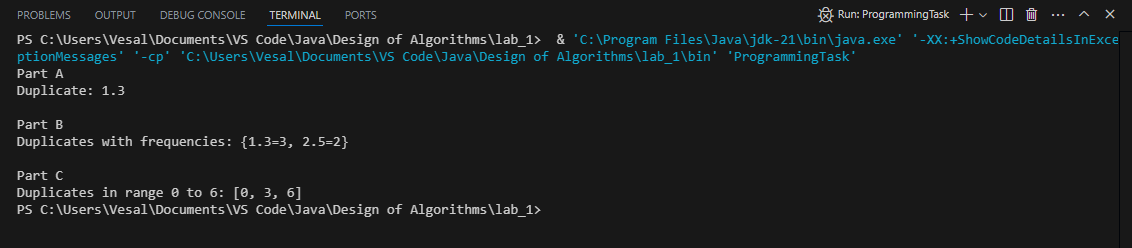
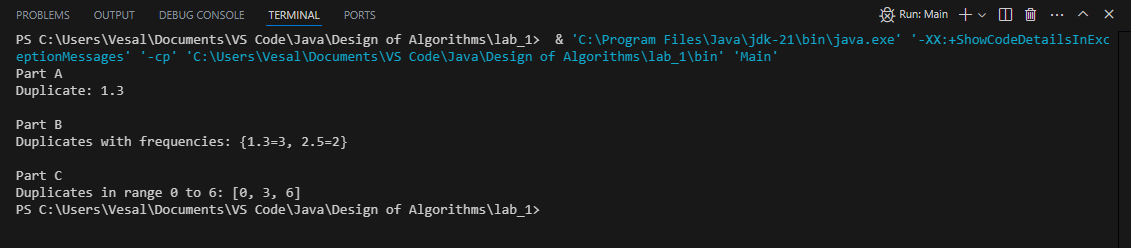
fix: separate main class

diff --git a/lab_1/src/MyHashMap.java b/lab_1/src/MyHashMap.java
@@ -2,20 +2,22 @@ import java.io.BufferedReader;
 import java.io.FileReader;
 import java.io.IOException;
 
-public class HashMap {
+class Program {
+    public static void main(String[] args) {
+        MyHashMap myHashMap = new MyHashMap();
+        myHashMap.test();
+        // myHashMap.print();
+    }
+}
+
+public class MyHashMap {
     private MyLinkedList[] entry;
 
-    public HashMap() {
+    public MyHashMap() {
         entry = new MyLinkedList[100];
         for (int i = 0; i < 100; i++) {
             entry[i] = new MyLinkedList();
         }
-    }
-
-    public static void main(String[] args) {
-        HashMap hashMap = new HashMap();
-        hashMap.test();
-        // hashMap.print();
     }
 
     public void test() {

diff --git a/lab_1/src/ProgrammingTask.java b/lab_1/src/ProgrammingTask.java
@@ -1,13 +1,15 @@
 import java.util.ArrayList;
 import java.util.HashMap;
 
-public class ProgrammingTask {
+class Main {
     public static void main(String[] args) {
         ProgrammingTask programmingTask = new ProgrammingTask();
         programmingTask.test();
     }
+}
 
-    private void test() {
+public class ProgrammingTask {
+    public void test() {
         // Test Part A
         System.out.println("Part A");
         float[] arrayA = { 1.3f, 2.5f, 3.7f, 4.2f, 1.3f, 5.3f };
